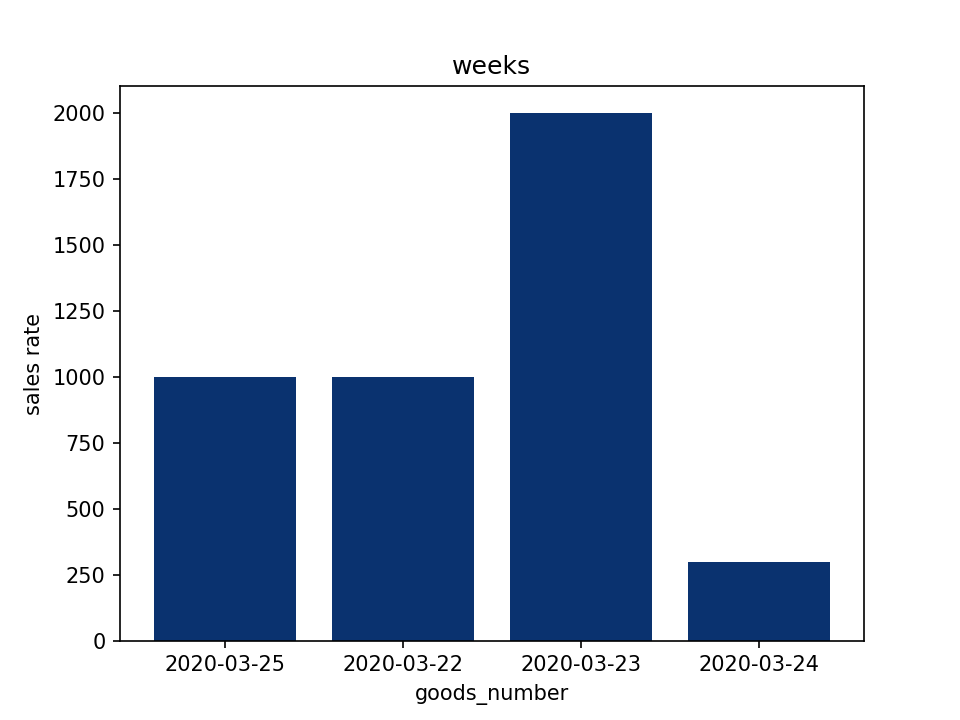
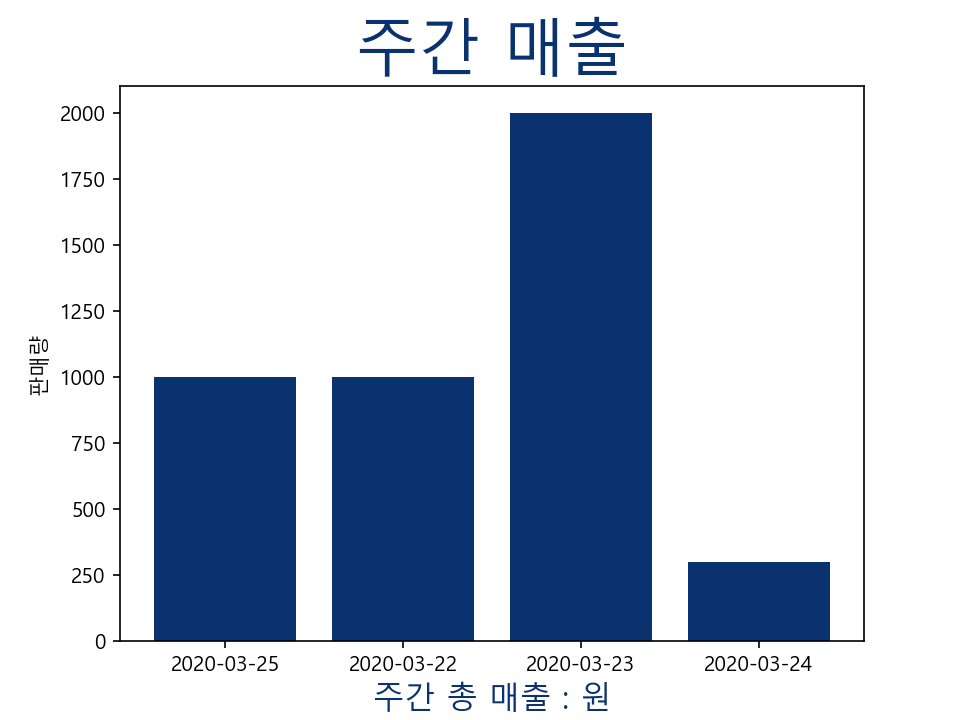
20200326_14:27

diff --git a/SJ/mae_chull/0325_auto_all_sell.py b/SJ/mae_chull/0325_auto_all_sell.py
@@ -1,12 +1,21 @@
 import pymysql
 import matplotlib.pyplot as plt
+import matplotlib.font_manager as fm
 
 con = pymysql.connect(host="192.168.0.19", user="root", password="1234",db='mydb', charset='utf8')
+
+fm.get_fontconfig_fonts()
+font_location = 'C:/windows/Fonts/namsan.ttf'
+#font_location = 'C:/Users/JSJ_Note_Book/Documents/카카오톡 받은 파일/namsan.ttf'
+
+font_name= fm.FontProperties(fname=font_location).get_name()
+plt.rc('font', family=font_name)
 
 cur = con.cursor()
 print("원하는 날짜를 입력 하시오 예) 2020-03-24")
 date=str(input())
 cnt=0
+
 sales_sum=0
 plot_cnt=[]
 
@@ -50,15 +59,15 @@ print("{0} 날짜 매출 : {1}".format(date,day_total))
 
 #plot 그리기
 
-
+day=str(day_total)
 x = plot_model
 y = plot_cnt
 
 plt.bar(x,y, align='center', color ='#0a326f')
 
-plt.xlabel('goods_number')
-plt.ylabel('sales rate')
-plt.title(date)
+plt.xlabel('금일 총 매출 : ' + day + '원', fontsize=15, color ='#0a326f')
+plt.ylabel('판매량')
+plt.title(date +'일 매출', fontsize = 30,color ='#0a326f')
 plt.savefig('da_test.png', format='png', dpi=150)
 plt.show()
 

diff --git a/SJ/mae_chull/week_day.py b/SJ/mae_chull/week_day.py
@@ -1,7 +1,20 @@
+#-*- coding:utf-8 -*-
 import pymysql
+import matplotlib
 import matplotlib.pyplot as plt
+import matplotlib.font_manager as fm
+
 
 con = pymysql.connect(host="192.168.0.19", user="root", password="1234",db='mydb', charset='utf8')
+
+
+path = 'C:/Windows/Fonts/malgun.ttf'
+
+font_name = fm.FontProperties(fname=path, size=50).get_name()
+
+plt.rc('font', family=font_name)
+
+
 
 cur = con.cursor()
 
@@ -13,14 +26,17 @@ sql='select price from graph'
 num_goods=cur.execute(sql)
 plot_day_price=[column[0] for column in cur.fetchall()]
 
+week=str(plot_day_price)
 
 x = plot_day
 y = plot_day_price
 
 plt.bar(x,y, align='center', color ='#0a326f')
 
-plt.xlabel('goods_number')
-plt.ylabel('sales rate')
-plt.title('weeks')
+plt.xlabel('주간 총 매출 : ' '원', fontsize=15, color ='#0a326f')
+plt.ylabel('판매량')
+#set.axisbelow(True)
+#plt.ylabel.grid(True, color='#0a326f', linestyle='dash', linewidth=0.5)
+plt.title('주간 매출', fontsize = 30,color ='#0a326f')
 plt.savefig('we_test.png', format='png', dpi=150)
 plt.show()

diff --git a/SJ/etc/select_all.py b/SJ/etc/select_all.py
@@ -4,8 +4,8 @@ con = pymysql.connect(host="192.168.0.19", user="root", password="1234",db='mydb
 
 cur = con.cursor()
 
-cur.execute("desc graph")
-print([column[0] for column in cur.fetchall()])
+#cur.execute("desc graph")
+#print([column[0] for column in cur.fetchall()])
 
 #sql='select idproducts from timetable where date1=%s'
 sql='select * from timetable'
